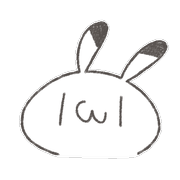
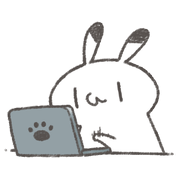
update 2026/10/18 周日  1:25:25.49

Changed region(s): [[0.0278, 0.1111, 0.9722, 0.8889]]

diff --git a/sw.js b/sw.js
@@ -104,15 +104,21 @@
  * 换缓存名的理由同 v6：旧壳里那份 js/app.js 还会挂底部提示条、
  * 旧壳里的 js/pwa.js 也没有 checkForUpdates —— 不换壳，
  * 「设置 → 获取更新」这个按钮点下去查不到任何东西。
+ *
+ * v23：换成「在打字的兔子」图标（icons/ 下六个 icon-*.png 全部重出，
+ * 源图换成 icons/rabbit-typing.png，旧的 icons/a783.gif 删掉；index.html 的
+ * <link rel="icon"> 跟着改）。
+ * 图标是 cache-first 的同源静态资源，URL 没变（还是 icons/icon-192.png 这些），
+ * 不换缓存名已装机的用户会一直看着旧兔子 —— 同 v5。
  */
-const VERSION = 'v22';
+const VERSION = 'v24';
 const CACHE = `somnus-${VERSION}`;
 /* 应用壳：与 index.html 实际引用的文件保持一致 */
 const SHELL = [
   './',
   './index.html',
   './manifest.webmanifest',
-  './icons/a783.gif',
+  './icons/rabbit-typing.png',
   './icons/icon-32.png',
   './icons/icon-180.png',
   './icons/icon-192.png',

diff --git a/index.html b/index.html
@@ -9,11 +9,10 @@
 <meta name="mobile-web-app-capable" content="yes">
 <title>somnus</title>
 <link rel="manifest" href="manifest.webmanifest">
-<!-- 图标统一放 icons/，命名 icon-<尺寸>.png；a783.gif 是生成源图，留原名 -->
-<link rel="icon" type="image/gif" href="icons/a783.gif">
+<!-- 图标统一放 icons/，命名 icon-<尺寸>.png；rabbit-typing.png 是生成源图，留原名 -->
+<link rel="icon" type="image/png" sizes="32x32" href="icons/icon-32.png">
 <link rel="icon" type="image/png" sizes="192x192" href="icons/icon-192.png">
 <link rel="icon" type="image/png" sizes="512x512" href="icons/icon-512.png">
-<link rel="alternate icon" type="image/png" sizes="32x32" href="icons/icon-32.png">
 <link rel="apple-touch-icon" sizes="180x180" href="icons/icon-180.png">
 <link rel="stylesheet" href="css/base.css">
 <link rel="stylesheet" href="css/layout.css">

diff --git a/js/changelog.js b/js/changelog.js
@@ -30,6 +30,16 @@
 /** @type {Array<{id: string, date: string, title: string, items: string[]}>} */
 export const CHANGELOG = [
   {
+    id: 'v23',
+    date: '2026-10-18',
+    title: '换了新图标',
+    items: [
+      '应用图标换成那只趴在笔记本前打字的兔子，画得比原来大一整圈，四边几乎顶到边',
+      '透明底保留着：桌面壁纸露出来，深色壁纸上是白兔子，浅色壁纸上是描边的小画',
+      '顺手让浏览器标签页、手机主屏（iOS / Android）上的图标都换成同一只'
+    ]
+  },
+  {
     id: 'v21',
     date: '2026-10-06',
     title: '更新改成自己去拿',
